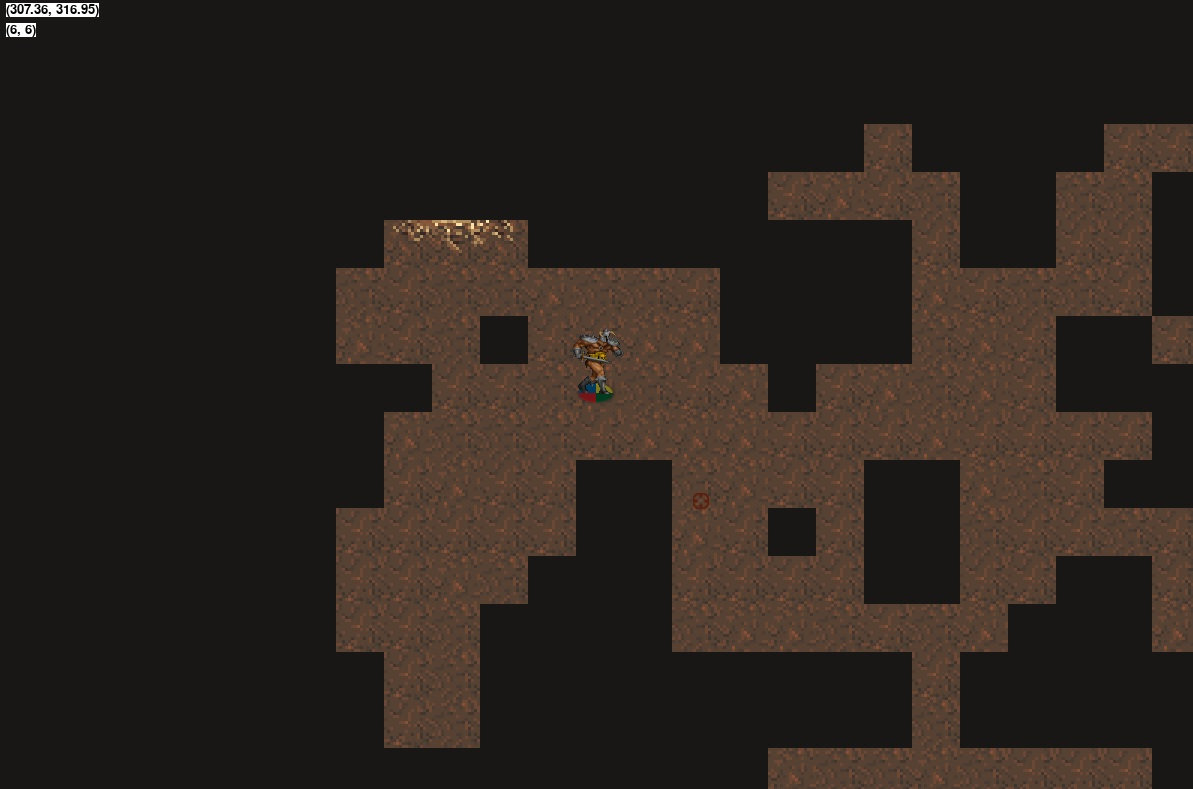
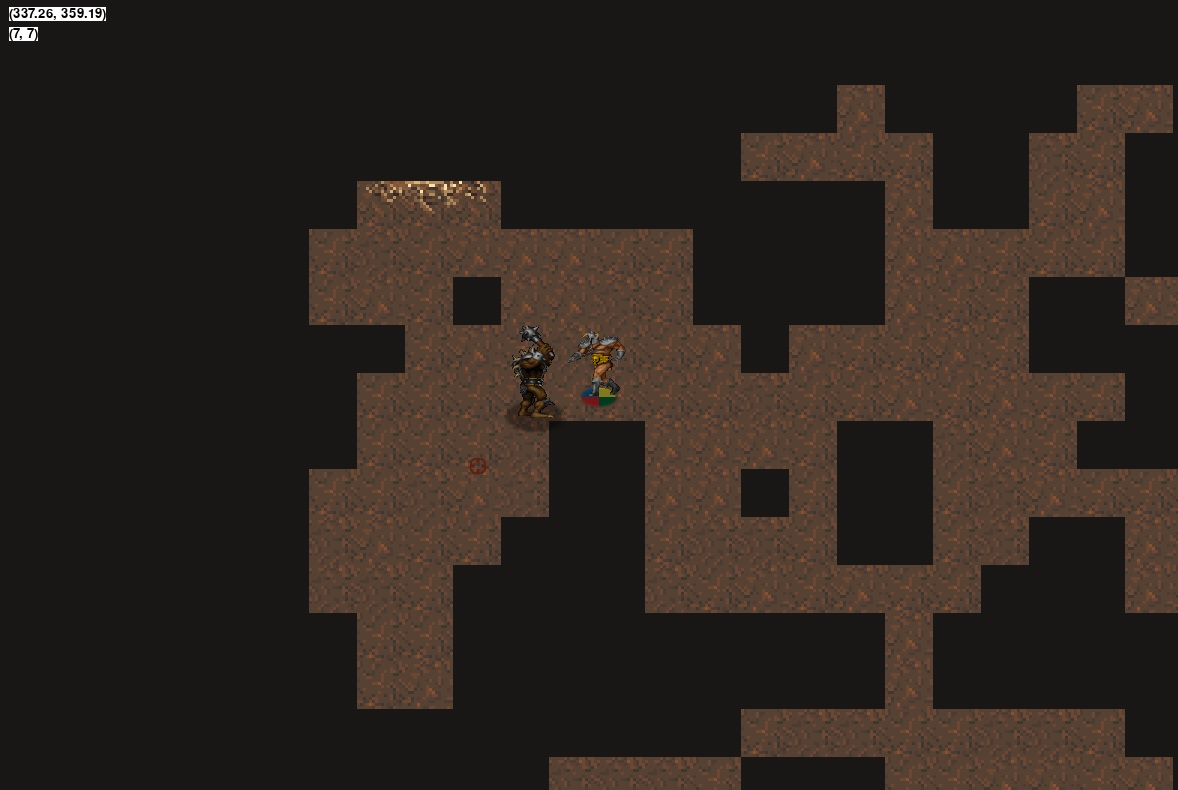
fixed bug with monster vs level collision when monster was not moving

Changed region(s): [[0.2445, 0.0913, 1.0, 1.0], [0.0, 0.0, 0.0917, 0.0608], [0.3973, 0.5779, 0.4278, 0.6084]]

diff --git a/utilities/movement_manager.py b/utilities/movement_manager.py
@@ -10,7 +10,7 @@ player_position_on_map = 0,0
 player_tile_index = 0,0
 
 def player_vs_monster_movement_collision():
-    for movement_collision_sprite_group in entity_manager.player_and_monster_movement_collision_sprite_groups:
+    for movement_collision_sprite_group in entity_manager.monster_movement_collision_sprite_groups:
         if movement_collision_sprite_group == unique_player_objects.PLAYER_SHADOW_SPRITE_GROUP:
             pass
         else:
@@ -24,13 +24,13 @@ def player_vs_monster_movement_collision():
 
 def character_vs_level_movement_collision(entity):
     for level_collision_sprite_group in entity_manager.level_collision_sprite_groups:
-            if entity.sprite.shadow.rect.colliderect(level_collision_sprite_group.sprite.rect) and pygame.sprite.collide_mask(entity.sprite.shadow, level_collision_sprite_group.sprite) != None:
+            if entity.sprite.shadow.rect.colliderect(level_collision_sprite_group.sprite.rect) and any_sector_mask_collides(entity.sprite,level_collision_sprite_group.sprite):
                 correct_character_position_by_vector(entity.sprite,level_collision_sprite_group.sprite)
 
 def monster_vs_monster_collision(current_monster_movement_collision_sprite):
-    for movement_collision_sprite_group in entity_manager.player_and_monster_movement_collision_sprite_groups:
-        movement_collision_sprite = movement_collision_sprite_group.sprite
-        if movement_collision_sprite_group == unique_player_objects.PLAYER_SHADOW_SPRITE_GROUP or current_monster_movement_collision_sprite == movement_collision_sprite:
+    for monster_movement_collision_sprite_group in entity_manager.monster_movement_collision_sprite_groups:
+        movement_collision_sprite = monster_movement_collision_sprite_group.sprite
+        if monster_movement_collision_sprite_group == unique_player_objects.PLAYER_SHADOW_SPRITE_GROUP or current_monster_movement_collision_sprite == movement_collision_sprite:
             pass
         else:
             if movement_collision_sprite.rect.colliderect(current_monster_movement_collision_sprite):
@@ -200,6 +200,16 @@ def correct_character_position_by_vector(current_entity_sprite,colliding_entity_
             elif south_east_mask_collides(current_entity_sprite,colliding_entity_sprite):
                 correction_vector = 0, -1
 
+        elif character_not_moving(current_entity_sprite):
+            if north_east_mask_collides(current_entity_sprite,colliding_entity_sprite):
+                correction_vector = 1, 1
+            elif north_west_mask_collides(current_entity_sprite,colliding_entity_sprite):
+                correction_vector = -1, 1
+            elif south_east_mask_collides(current_entity_sprite,colliding_entity_sprite):
+                correction_vector = -1, -1
+            elif south_west_mask_collides(current_entity_sprite,colliding_entity_sprite):
+                correction_vector = 1, -1
+
         if current_entity_sprite == unique_player_objects.HERO:
             entity_manager.update_all_non_player_entities_position_by_vector(correction_vector)
         else:
@@ -274,6 +284,15 @@ def character_moving_south_west(current_entity_sprite):
             return True
     else:
         if current_entity_sprite.speed_vector[0] < 0 and current_entity_sprite.speed_vector[1] > 0:
+            return True
+    return False
+
+def character_not_moving(current_entity_sprite):
+    if current_entity_sprite == unique_player_objects.HERO:
+        if speed_vector[0] == 0 and speed_vector[1] == 0:
+            return True
+    else:
+        if current_entity_sprite.speed_vector[0] == 0 and current_entity_sprite.speed_vector[1] == 0:
             return True
     return False
 

diff --git a/utilities/entity_manager.py b/utilities/entity_manager.py
@@ -9,7 +9,7 @@ from entities.characters import ettin
 entities_id = []
 character_sprite_groups = [unique_player_objects.HERO_SPRITE_GROUP]
 shadow_sprite_groups = [unique_player_objects.PLAYER_SHADOW_SPRITE_GROUP]
-player_and_monster_movement_collision_sprite_groups = [unique_player_objects.PLAYER_SHADOW_SPRITE_GROUP]
+monster_movement_collision_sprite_groups = []
 level_collision_sprite_groups = []
 melee_collision_sprite_groups = [unique_player_objects.PLAYER_SHADOW_SPRITE_GROUP]
 item_sprite_groups = []
@@ -20,7 +20,7 @@ projectile_sprite_groups = []
 collision_sprites = [pygame.sprite.GroupSingle(unique_player_objects.HERO.character_collision_mask_ne),pygame.sprite.GroupSingle(unique_player_objects.HERO.character_collision_mask_nw),pygame.sprite.GroupSingle(unique_player_objects.HERO.character_collision_mask_se),pygame.sprite.GroupSingle(unique_player_objects.HERO.character_collision_mask_sw)]
 
 def get_collision_sprite_by_id(id):
-    for collision_sprite in player_and_monster_movement_collision_sprite_groups:
+    for collision_sprite in monster_movement_collision_sprite_groups:
         if collision_sprite.sprite.id == id:
             return collision_sprite.sprite
 
@@ -81,10 +81,10 @@ def create_monster_character(monster_sprite):
 
 def kill_character_auxilary_entities(id):
     global character_sprite_groups
-    global player_and_monster_movement_collision_sprite_groups
-    for collision_sprite_group in player_and_monster_movement_collision_sprite_groups:
+    global monster_movement_collision_sprite_groups
+    for collision_sprite_group in monster_movement_collision_sprite_groups:
         if collision_sprite_group.sprite.id == id:
-            player_and_monster_movement_collision_sprite_groups.remove(collision_sprite_group)
+            monster_movement_collision_sprite_groups.remove(collision_sprite_group)
     for collision_sprite_group in melee_collision_sprite_groups:
         if collision_sprite_group.sprite.id == id:
             melee_collision_sprite_groups.remove(collision_sprite_group)
@@ -103,13 +103,13 @@ def add_auxilary_objects(monster_sprite_grup):
 def append_sprites_and_entities_lists(monster_sprite_group,movement_collision_shadow_sprite_group,melee_collision_shadow_sprite_group,shadow_sprite_group,melee_sector_sprite_group):
     global character_sprite_groups
     global shadow_sprite_groups
-    global player_and_monster_movement_collision_sprite_groups
+    global monster_movement_collision_sprite_groups
     global melee_collision_sprite_groups
     global melee_sector_sprite_groups
 
     character_sprite_groups.append(monster_sprite_group)
     shadow_sprite_groups.append(shadow_sprite_group)
-    player_and_monster_movement_collision_sprite_groups.append(movement_collision_shadow_sprite_group)
+    monster_movement_collision_sprite_groups.append(movement_collision_shadow_sprite_group)
     melee_collision_sprite_groups.append(melee_collision_shadow_sprite_group)
     melee_sector_sprite_groups.append(melee_sector_sprite_group)
 
@@ -120,7 +120,7 @@ def update_all_entities():
     for shadow_sprite_group in shadow_sprite_groups:
         shadow_sprite_group.sprite.update()
 
-    for movement_collision_sprite_group in player_and_monster_movement_collision_sprite_groups:
+    for movement_collision_sprite_group in monster_movement_collision_sprite_groups:
         movement_collision_sprite_group.sprite.update()
 
     for melee_collision_sprite_group in melee_collision_sprite_groups:

diff --git a/main.py b/main.py
@@ -89,8 +89,8 @@ def draw_sprites():
         tile.draw(screen)
     for melee_sectors in entity_manager.melee_sector_sprite_groups:
         melee_sectors.draw(screen)
-    for collision_sector in entity_manager.collision_sprites:
-        collision_sector.draw(screen)
+    # for collision_sector in entity_manager.collision_sprites:
+    #     collision_sector.draw(screen)
     for shadow in entity_manager.shadow_sprite_groups:
         shadow.draw(screen)
     for character in entity_manager.character_sprite_groups:
